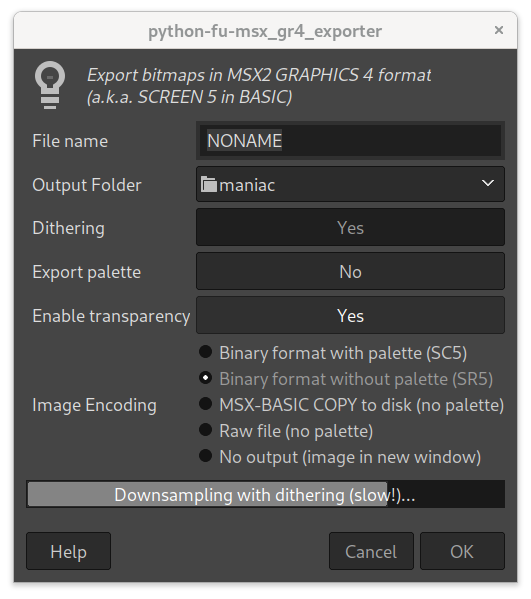
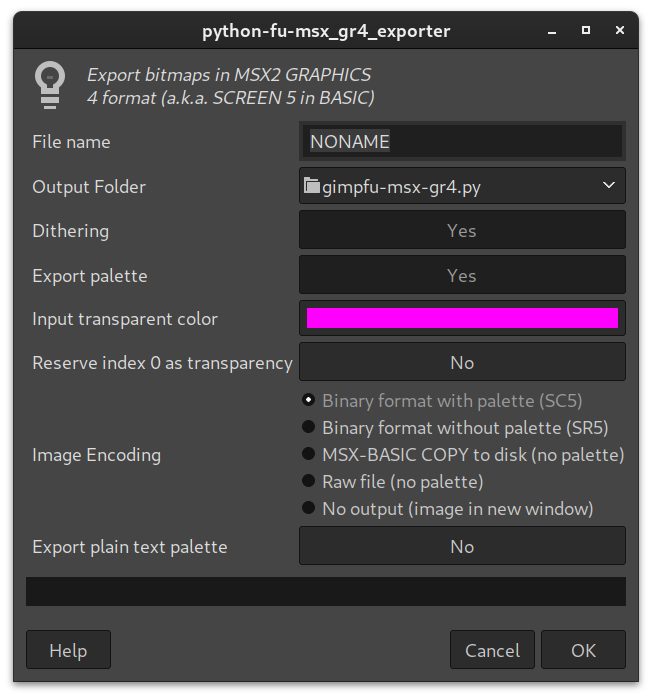
allow user to redefine transparent colour

diff --git a/gimpfu_msx_g4.py b/gimpfu_msx_g4.py
@@ -56,7 +56,7 @@ def create_distance_query(palette):
     return query_index
 
 
-def write_gr4(image, layer, filename, folder, dithering, exp_pal, transparency, image_enc, exp_ptp):
+def write_gr4(image, layer, filename, folder, dithering, exp_pal, trans_color, transparency, image_enc, exp_ptp):
     '''
     Export image to GRAPHICS 4, a.k.a. SCREEN 5 (MSX2).
     
@@ -66,10 +66,17 @@ def write_gr4(image, layer, filename, folder, dithering, exp_pal, transparency, 
     @param folder: output directory
     @param dithering: whether dithering is active
     @param exp_pal: export palette data too
-    @param transparency: transparency consumes one color index
+    @param trans_color: RGB components of input color to be considered transparent
+    @param transparency: transparency support consumes color index 0
     @param image_enc: output encoding
     @param exp_ptp: export plain-text-palette data too
     '''
+
+    if transparency:
+        # RGBA to RGB
+        trans_color = trans_color[0:3]
+    else:
+        trans_color = False
 
     filename = filename.upper()
     errors = []
@@ -113,18 +120,29 @@ def write_gr4(image, layer, filename, folder, dithering, exp_pal, transparency, 
 
     # Check if image is indexed and convert to RGB.
     palette = []
+    max_colors = MAX_COLORS - transparency
     type_ = gimpfu.pdb.gimp_image_base_type(new_image);
     if type_ == INDEXED:
         num_bytes, colormap = gimpfu.pdb.gimp_image_get_colormap(new_image)
+        if transparency:
+            # Find transparent color in colormap
+            color = 0
+            trans_count = 0
+            for i in range(0, num_bytes, 3):
+                if (colormap[i], colormap[i + 1], colormap[i + 2]) == trans_color:
+                    trans_count += 1
+                else:
+                    palette.append(((colormap[i], colormap[i + 1], colormap[i + 2]), color))
+                    color += 1
+            if trans_count > 1:
+                # Is this possible?
+                gimp.message("More than one transparent color detected.")
+                return
         # Convert to RGB to reduce color count. Old palette is discarded.
-        if num_bytes // 3 > MAX_COLORS or dithering:
+        if num_bytes // 3 > max_colors or dithering:
             type_ = RGB
+            palette = []
             gimpfu.pdb.gimp_image_convert_rgb(new_image);
-        else:
-            # Convert colormap into palette.
-            transparency = 0
-            for i, j in enumerate(range(0, num_bytes, 3)):
-                palette.append(((colormap[j], colormap[j + 1], colormap[j + 2]), i))
     elif type_ == GRAY:
         type_ = RGB
         gimpfu.pdb.gimp_image_convert_rgb(new_image);
@@ -134,16 +152,19 @@ def write_gr4(image, layer, filename, folder, dithering, exp_pal, transparency, 
     txtpal = [(0, 0, 0)] * MAX_COLORS
 
     if not palette:
-        drawable = downsampling(new_image, dithering)
-        histogram = create_histogram(drawable)
-        palette = quantize_colors(histogram, MAX_COLORS - transparency)
+        # disable dithering when transparency is used
+        use_transparency = check_transparency(new_image, trans_color)
+        drawable = downsampling(new_image, trans_color, dithering)
+        histogram = create_histogram(drawable, trans_color)
+        palette = quantize_colors(histogram, max_colors)
         query = create_distance_query(palette)
 
     for (r, g, b), index in palette:
         # Start palette at color 1 if transparency is set.
-        pal9bits[(index + transparency) * 2] = 16 * (r >> 5) + (b >> 5)
-        pal9bits[(index + transparency) * 2 + 1] = (g >> 5)
-        txtpal[(index + transparency)] = (r >> 5, g >> 5, b >> 5)
+        i = index + transparency
+        pal9bits[i * 2] = 16 * (r >> 5) + (b >> 5)
+        pal9bits[i * 2 + 1] = (g >> 5)
+        txtpal[i] = (r >> 5, g >> 5, b >> 5)
 
     if exp_ptp:
         file = open(os.path.join(folder, '%s.TXT' % filename), 'wt')
@@ -179,12 +200,18 @@ def write_gr4(image, layer, filename, folder, dithering, exp_pal, transparency, 
                 if type_ == RGB:
                     # num_channels, RGBA
                     _, c = gimpfu.pdb.gimp_drawable_get_pixel(drawable, x, y)
-                    index, _ = query((c[0], c[1], c[2]))
+                    if transparency and c == trans_color:
+                        # index of transparent color is always 0
+                        index = 0
+                    else:
+                        index, _ = query((c[0], c[1], c[2]))
+                        index += transparency
                 else:
                     # num_channels, index, alpha
                     _, (index, _) = gimpfu.pdb.gimp_drawable_get_pixel(drawable, x, y)
+                    index += transparency
                 pos = x // 2 + y * (width // 2)
-                buffer[pos] |= (index + transparency) if x % 2 else (index + transparency) << 4;
+                buffer[pos] |= index if x % 2 else index << 4;
 
             percent += step
             gimpfu.pdb.gimp_progress_update(percent)
@@ -207,7 +234,23 @@ def write_gr4(image, layer, filename, folder, dithering, exp_pal, transparency, 
         gimpfu.pdb.gimp_display_new(new_image)
 
 
-def create_histogram(drawable):
+def check_transparency(image, trans_color = False):
+    if trans_color == False:
+        return False
+
+    drawable = gimpfu.pdb.gimp_image_active_drawable(image)
+    # Only even sizes are permitted.
+    width, height = gimpfu.pdb.gimp_drawable_width(drawable) & ~1, gimpfu.pdb.gimp_drawable_height(drawable) & ~1
+
+    for y in range(height):
+        for x in range(width):
+            _, c = gimpfu.pdb.gimp_drawable_get_pixel(drawable, x, y)
+            if trans_color and (c[0], c[1], c[2]) == trans_color:
+                return True
+    return False
+
+
+def create_histogram(drawable, trans_color = False):
     width, height = gimpfu.pdb.gimp_drawable_width(drawable), gimpfu.pdb.gimp_drawable_height(drawable)
     histogram = {}
 
@@ -220,6 +263,9 @@ def create_histogram(drawable):
     for y in range(height):
         for x in range(width):
             _, c = gimpfu.pdb.gimp_drawable_get_pixel(drawable, x, y)
+            # Ignore transparent color
+            if trans_color and (c[0], c[1], c[2]) == trans_color:
+                continue
             histogram[(c[0], c[1], c[2])] = histogram.get((c[0], c[1], c[2]), 0) + 1
 
         percent += step
@@ -290,12 +336,14 @@ def scatter_noise(drawable, x, y, error):
             pass # hey, gimp developers, Python 2.7 sucks!
 
 
-def downsampling(image, dithering=True):
+def downsampling(image, trans_color=False, dithering=True):
     """Reduction to 9-bit palette with optional dithering."""
     drawable = gimpfu.pdb.gimp_image_active_drawable(image)
     # Only even sizes are permitted.
     width, height = gimpfu.pdb.gimp_drawable_width(drawable) & ~1, gimpfu.pdb.gimp_drawable_height(drawable) & ~1
  
+    # Disable dithering if transparent color is used
+    dithering = not trans_color and dithering
     gimpfu.pdb.gimp_progress_init('Downsampling%s...' % (' with dithering (slow!)' if dithering else ''), None)
     gimpfu.pdb.gimp_progress_update(0.0)
 
@@ -305,9 +353,12 @@ def downsampling(image, dithering=True):
     for y in range(height):
         for x in range(width):
             nchannels, c = gimpfu.pdb.gimp_drawable_get_pixel(drawable, x, y)
-            r = int(round(float(c[0]) / 0xff * 7)) << 5
-            g = int(round(float(c[1]) / 0xff * 7)) << 5
-            b = int(round(float(c[2]) / 0xff * 7)) << 5
+            if not(trans_color and (c[0], c[1], c[2]) == trans_color):
+                r = int(round(float(c[0]) / 0xff * 7)) << 5
+                g = int(round(float(c[1]) / 0xff * 7)) << 5
+                b = int(round(float(c[2]) / 0xff * 7)) << 5
+            else:
+                r, g, b = trans_color
             gimpfu.pdb.gimp_drawable_set_pixel(drawable, x, y, nchannels, (r, g, b))
 
             if dithering:
@@ -330,7 +381,8 @@ gimpfu.register("msx_gr4_exporter",
                     (gimpfu.PF_DIRNAME, "folder", "Output Folder", DEFAULT_OUTPUT_DIR),
                     (gimpfu.PF_BOOL, "dithering", "Dithering", True),
                     (gimpfu.PF_BOOL, "exp-pal", "Export palette", False),
-                    (gimpfu.PF_BOOL, "transparency", "Enable transparency", True),
+                    (gimpfu.PF_COLOR, "trans_color", "Input transparent color", (0xff, 0x0, 0xff)),
+                    (gimpfu.PF_BOOL, "transparency", "Reserve index 0 as transparency", True),
                     (gimpfu.PF_RADIO, "image-enc", "Image Encoding", DEFAULT_OUTPUT_FMT,
                        (("Binary format with palette (SC5)", "SC5"),
                         ("Binary format without palette (SR5)", "SR5"),

diff --git a/README.md b/README.md
@@ -11,6 +11,10 @@ GIMP script to export bitmap as GRAPHICS 4 file (a.k.a. "SCREEN 5"). GRAPHICS 4 
 
 Plug-in is accessible through _Filters > MSX >> Export GRAPHICS 4 bitmap_.  You may disable **Image Encoding** altogether to create an image inside GIMP and not export it to disk at all. In this case, the plug-in doesn't check image size. But be warned: big images tend to take a very. Long. Time.
 
+### Latest changes
+
+* The plugin now detects if a predefined transparent colour is being used and force it to index 0.
+
 ## Original vs sample image
 
 #### As usual, here is a picture of a good girl for comparison:
@@ -77,6 +81,7 @@ A palette file (NONAME.PAL) is still recommended to restore the image properly.
 * [x] ignore alpha channel instead of triggering errors;
 * [x] embedded palette support;
 * [x] MSX-BASIC COPY to disk format support;
+* [x] enable user to define the transparent colour;
 * [ ] RLE encoding;
 * [ ] aPLib compression;
 * [ ] converting layers into pages;
